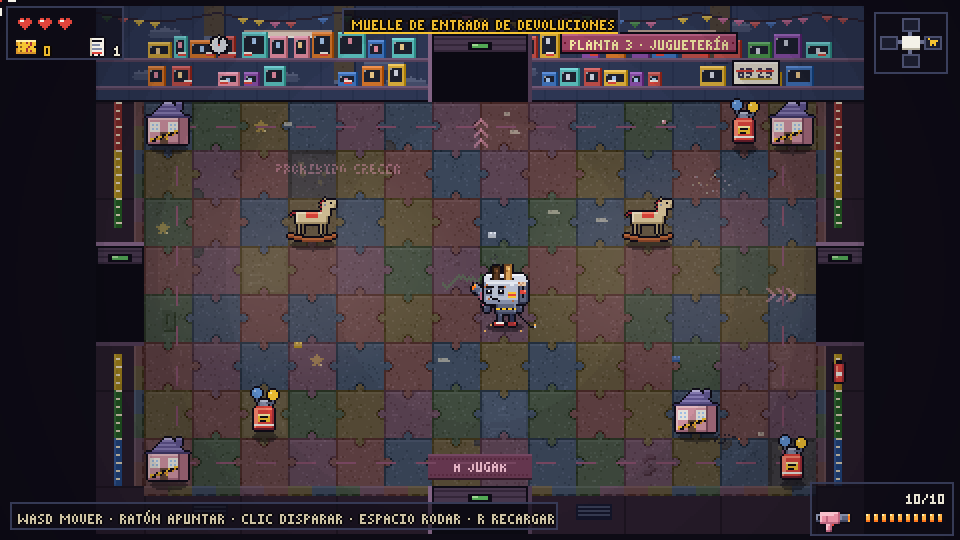
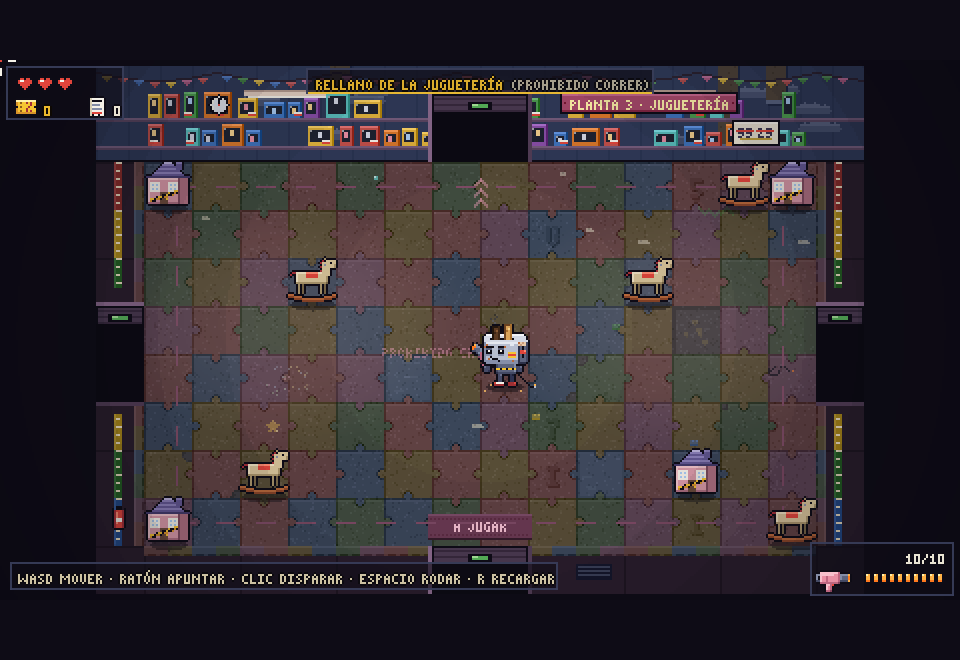
M10 (2c): las salas especiales de la Juguetería (rellano, tesoro, tienda, secreta con su catálogo de Navidad y el Escaparate de Novedades)
Claude-Session: https://claude.ai/code/session_01LyCe1RLjgaEZkf9uXnFzeE

diff --git a/src/data/rooms.ts b/src/data/rooms.ts
@@ -807,7 +807,7 @@ const FLOOR_2: RoomTemplate[] = [
 // Floor 3 (Juguetería) templates: same rules as the floors below. Its toys punish standing still
 // and not watching the floor (docs/DISENO.md), so its rooms give the wind-up robots walls to
 // bounce off, the cars room to run, the buckets of pieces floor to sow and the tables to tip.
-// Until it has its own (M10 2c), its start, treasure, shop, secret and boss rooms are floor 1's.
+// Its boss room, el Escaparate de Novedades, waits for El Muñeco de Moda (M10 5).
 const FLOOR_3: RoomTemplate[] = [
   {
     id: 'circuito-ocasion',
@@ -1085,6 +1085,111 @@ const FLOOR_3: RoomTemplate[] = [
       '#..e........e..#',
       '#b............b#',
       '################',
+    ],
+  },
+  // ---------- Start, treasure, shop, secret, boss (floor 3) ----------
+  {
+    id: 'entrada-jugueteria',
+    kind: 'start',
+    level: 3,
+    name: 'Rellano de la Juguetería (Prohibido Correr)',
+    rows: [
+      '################',
+      '################',
+      '#c...........kc#',
+      '#..............#',
+      '#...k......k...#',
+      '#..............#',
+      '#.......P......#',
+      '#..............#',
+      '#..k........c..#',
+      '#c............k#',
+      '################',
+    ],
+  },
+  {
+    id: 'tesoro-jugueteria',
+    kind: 'treasure',
+    level: 3,
+    name: 'Encargos de Reyes que Nadie Recogió',
+    rows: [
+      '################',
+      '################',
+      '#cc..........cc#',
+      '#..............#',
+      '#..k........k..#',
+      '#...*......*...#',
+      '#.......*......#',
+      '#..............#',
+      '#..c........c..#',
+      '#k............k#',
+      '################',
+    ],
+  },
+  {
+    id: 'tienda-jugueteria',
+    kind: 'shop',
+    level: 3,
+    name: 'Juguetes Educativos (Enseñan a Pagar)',
+    rows: [
+      '####################',
+      '####################',
+      '#c.k.........$...kc#',
+      '#..................#',
+      '#...s....s....s....#',
+      '#..................#',
+      '#..................#',
+      '#..................#',
+      '#..c...........c...#',
+      '#..................#',
+      '#..................#',
+      '#ck..............kc#',
+      '####################',
+    ],
+  },
+  {
+    id: 'secreta-jugueteria',
+    kind: 'secret',
+    level: 3,
+    name: 'Juguetes Retirados (Piezas Pequeñas)',
+    rows: [
+      '################',
+      '################',
+      '#ccc..k....kccc#',
+      '#cc...........c#',
+      '#c.............#',
+      '#.......*......#',
+      '#..............#',
+      '#c.............#',
+      '#cc..........kc#',
+      '#ccck......kccc#',
+      '################',
+    ],
+  },
+  {
+    // El Muñeco de Moda (docs/DISENO.md): a clear centre for its catwalk from wall to wall, and
+    // four glass display cases (shelving, for now) that stop bullets.
+    id: 'jefe-jugueteria',
+    kind: 'boss',
+    level: 3,
+    name: 'Escaparate de Novedades (de la Temporada Pasada)',
+    rows: [
+      '##########################',
+      '##########################',
+      '#c......................c#',
+      '#........................#',
+      '#...........J............#',
+      '#........................#',
+      '#.....##..........##.....#',
+      '#.....##..........##.....#',
+      '#........................#',
+      '#........................#',
+      '#.....##..........##.....#',
+      '#.....##..........##.....#',
+      '#........................#',
+      '#........................#',
+      '#b......................b#',
+      '##########################',
     ],
   },
 ];

diff --git a/tests/rooms.test.ts b/tests/rooms.test.ts
@@ -236,21 +236,30 @@ test('salas especiales de la planta 2: lo mismo que las del almacén donde impor
   }
 });
 
-test('plantillas de la planta 3: doce salas de combate suyas, y las especiales todavía las del almacén', () => {
+test('plantillas de la planta 3: doce salas de combate y las especiales, todas suyas', () => {
   const three = templatesOf('combat', 3);
   assert.ok(three.length >= 12, `${three.length} salas de combate en la planta 3`);
   for (const t of three) assert.equal(t.level, 3, t.id);
   // Nothing of floor 3 leaks into the floors below.
   for (const level of [1, 2]) assert.ok(!templatesOf('combat', level).some((t) => t.level === 3), `planta ${level}`);
-  // Until M10 (2c) the special rooms of floor 3 are the warehouse's.
-  for (const k of ['start', 'treasure', 'shop', 'secret', 'boss'] as const) assert.deepEqual(templatesOf(k, 3), templatesOf(k), k);
+  // Its special rooms are its own too, and match the warehouse's where the code counts on it.
+  const count = (t: RoomTemplate, ch: string): number => [...t.rows.join('')].filter((x) => x === ch).length;
+  for (const k of ['start', 'treasure', 'shop', 'secret', 'boss'] as const) {
+    const [one] = templatesOf(k);
+    assert.ok(templatesOf(k, 3).length >= 1, k);
+    for (const t of templatesOf(k, 3)) {
+      assert.equal(t.level, 3, `${k}: ${t.id}`);
+      for (const ch of ['*', 's', '$', 'J', 'e', 'P']) assert.equal(count(t, ch), count(one!, ch), `${t.id}: «${ch}»`);
+      assert.deepEqual([t.rows[0]!.length, t.rows.length], [one!.rows[0]!.length, one!.rows.length], `${t.id}: tamaño`);
+    }
+  }
   // A generated floor 3 fights only in its own rooms, and its toys come out of their slots.
   const toys = new Set(['Q', 'V', 'U', 'Y']);
   let withToys = 0;
   for (let i = 0; i < 10; i++) {
     const w = createWorld({ seed: `juguetes-${i}`, floor: true, level: 3 });
+    for (const r of w.floor!.rooms) assert.equal(r.template.level, 3, r.template.id);
     for (const r of w.floor!.rooms.filter((x) => x.template.kind === 'combat')) {
-      assert.equal(r.template.level, 3, r.template.id);
       if ([...r.template.rows.join('')].some((ch) => toys.has(ch))) withToys++;
     }
   }

diff --git a/tests/archivador-panel.test.ts b/tests/archivador-panel.test.ts
@@ -62,10 +62,10 @@ test('el panel enseña la lista, lo nuevo, la hoja abierta, y vacío lo dice', (
   const a = archive(two!);
   const L = archiveLayout(a, firstCursor(a), hint);
   const tt = L.texts.map((t) => t.text);
-  assert.ok(tt.includes('2/4'));
+  assert.ok(tt.includes(`2/${LORE.length}`));
   assert.equal(L.texts.filter((t) => t.role === 'new').map((t) => t.text).join(), ARCHIVE_NEW, 'solo el manual es nuevo');
   assert.equal(L.texts.find((t) => t.role === 'open')?.text, 'Manual de procedimiento · Página 1 de 400');
-  assert.equal(L.texts.filter((t) => t.role === 'missing').length, 2);
+  assert.equal(L.texts.filter((t) => t.role === 'missing').length, LORE.length - 2);
   assert.ok(tt.some((t) => t.startsWith('Paso 1: reciba el aparato')));
   assert.ok(tt.includes('Hoja 1 de 2') && tt.includes(hint));
   assert.equal(LORE_MISSING, a[2]!.heading);

diff --git a/src/data/lore.ts b/src/data/lore.ts
@@ -65,4 +65,15 @@ export const LORE: readonly LoreDoc[] = [
       'Resistencia de tostadora, reacondicionada: 0,40. Puerta de microondas, reacondicionada: 0,15. Gracias por su visita.',
     ],
   },
+  {
+    id: 'catalogo-1',
+    kind: 'Catálogo de Navidad',
+    title: 'Edición interna · No distribuir',
+    source: { secret: 3 },
+    pages: [
+      'Novedad de la temporada: Robot de Cuerda «Segunda Vida». Muelle de tostadora, chapa de microondas y engranajes de batidora. Todo de la última planta.',
+      'Garantía: la que les quedara a las piezas. Nota del departamento: no les quedaba ninguna. Por eso sale tan barato.',
+      'Edad recomendada: 3+. Edad de las piezas: no pregunte.',
+    ],
+  },
 ];

diff --git a/tests/documentos.test.ts b/tests/documentos.test.ts
@@ -18,7 +18,7 @@ function intoSecret(w: World): void {
 const docOf = (level: number): string => LORE.find((l) => 'secret' in l.source && l.source.secret === level)!.id;
 
 test('la sala secreta de cada planta guarda su documento en el suelo, en un sitio pisable', () => {
-  for (const level of [1, 2]) {
+  for (const level of [1, 2, 3]) {
     for (const seed of ['a', 'b', 'c', 'd']) {
       const w = createWorld({ seed: `doc-${seed}`, floor: true, level });
       w.noDamage = true;

diff --git a/docs/BITACORA.md b/docs/BITACORA.md
@@ -2,6 +2,13 @@
 
 La entrada más reciente va arriba. Cada sesión añade una.
 
+## 2026-11-05 03:09 (hora peninsular) — Hito M10 — Las salas especiales de la Juguetería
+- Hecho: M10 (2c), y con ella la (2) entera: la planta 3 ya no usa ninguna sala del almacén. En `FLOOR_3` (`src/data/rooms.ts`): **Rellano de la Juguetería (Prohibido Correr)**, la entrada, con caballitos y casitas; **Encargos de Reyes que Nadie Recogió**, el tesoro; **Juguetes Educativos (Enseñan a Pagar)**, la tienda; **Juguetes Retirados (Piezas Pequeñas)**, la secreta, abarrotada de casitas y caballitos; y el **Escaparate de Novedades (de la Temporada Pasada)**, la sala del jefe: centro despejado para la pasarela del Muñeco y cuatro expositores que paran balas (de estantería por ahora). Mismos huecos (`*`, `s`, `$`, `J`, `P`) y tamaño que las del almacén, como las de la planta 2; lo comprueba el test de la planta 3, que además pide que una planta 3 generada use solo salas suyas. Documento de historia nuevo para la secreta (`catalogo-1` en `src/data/lore.ts`, `source: { secret: 3 }`): un **Catálogo de Navidad** interno cuyo robot de la temporada está hecho con un muelle de tostadora, chapa de microondas y engranajes de batidora «de la última planta», con la garantía «que les quedara a las piezas». `documentos.test.ts` comprueba ya las plantas 1, 2 y 3.
+- Decisiones: el documento cuenta adónde van las piezas que el Servicio Técnico «repara» (a juguetes nuevos) sin decir todavía que el jugador es el producto, que es cosa del piso secreto (M12); lo apunto en `docs/DISENO.md`. Los expositores de cristal del diseño son, de momento, bloques de estantería: un sprite de vitrina tiene más sentido junto al jefe (5a). Hasta que llegue el Muñeco, el Escaparate lo ocupa el jefe que dé `floorBossOf(3)` (hoy la Nevera); la (3) decide que sea el Router. `archivador-panel.test.ts` tenía «2/4» escrito a mano: ahora lo calcula con `LORE.length`.
+- Medidas: plantas 3 enteras (20, `playFloor` nivel 3): sin daño las recorre todas sin atascos; con daño 43,9 s y 3,17 heridas por sala de combate (igual que antes: las especiales no tienen enemigos). `npm run bot` idéntico.
+- Problemas conocidos: ninguno nuevo. La planta 3 sigue sin alcanzarse jugando.
+- Siguiente paso: M10 (3), encadenar la planta 3 tras el Router (con el Router en el Escaparate hasta que llegue el Muñeco); o (4) ya hecha, así que después (5a), los sprites del Muñeco de Moda.
+
 ## 2026-11-05 02:58 (hora peninsular) — Hito M10 — Seis salas de combate más en la Juguetería
 - Hecho: M10 (2b), con lo que la planta 3 tiene sus doce salas de combate. Nuevas en `FLOOR_3` (`src/data/rooms.ts`): **Maqueta de Tren Eléctrico** (26×13, dos vías de estantería que hacen tres carriles; pasos del centro fijos y de los lados a veces), **Castillo Hinchable** (20×13, un castillo de estanterías con la puerta hacia abajo y dos ventanas que a veces están, con alguien dentro), **Laberinto de Canicas** (16×16, cuatro tramos en molinillo alrededor del centro), **Fiesta de Cumpleaños** (20×16, dos filas de mesas que se vuelcan y bombonas de helio entre ellas), **Regalos Devueltos (26 de Diciembre)** (26×16, escaleras de estantería desde las cuatro esquinas: un rombo con las puntas abiertas) y **Probadores de Disfraces** (16×11, dos probadores en la pared del fondo con alguien dentro, a veces con la cortina medio echada). El test de la planta 3 pide ahora doce.
 - Decisiones: partí la antigua (2b) de la hoja de ruta en dos: (2b) estas seis salas y (2c) las salas especiales (entrada, tesoro, tienda, secreta con su documento y el Escaparate de Novedades), que piden más cosas (documento de historia, sala del jefe) y merecen su propia tarea. Las cortinas de los probadores dejan siempre un hueco: un grupo que cerrara del todo el probador dejaría suelo encerrado (lo prohíbe `rooms.test.ts`).

diff --git a/docs/DISENO.md b/docs/DISENO.md
@@ -403,7 +403,8 @@ no al acercarse (nota del humano del 2026-10-30).
 - **El archivador «Reclamaciones sin Resolver»**: los documentos de historia encontrados
   (albaranes, correos internos, manuales de procedimiento del Servicio Técnico), uno por jefe
   vencido por primera vez y alguno en salas secretas. Leídos en orden cuentan, poco a poco, que
-  el Servicio Técnico no repara nada.
+  el Servicio Técnico no repara nada. El de la secreta de la Juguetería (un catálogo de Navidad
+  interno) deja ver adónde van las piezas: a los juguetes de la temporada siguiente.
 - **La cinta de entrada al almacén**: una cinta transportadora con cortinas de tiras de
   plástico en una pared, bajo el cartel «Mercancía devuelta». Pisarla empieza la partida en la
   planta 1 (como un producto más que vuelve al almacén).

diff --git a/docs/HOJA_DE_RUTA.md b/docs/HOJA_DE_RUTA.md
@@ -332,7 +332,7 @@ jefes y menos plantas ganadas), y los números están en la bitácora.
     persianas propias.
   - [x] (2a) Seis plantillas de combate propias de la planta 3, cada una con su idea y sus grupos.
   - [x] (2b) Seis plantillas de combate más.
-  - [ ] (2c) Las salas especiales propias (entrada, tesoro, tienda, secreta con su documento de
+  - [x] (2c) Las salas especiales propias (entrada, tesoro, tienda, secreta con su documento de
     historia, y el Escaparate de Novedades del jefe).
   - [ ] (3) Encadenar: tras el Router se baja en el montacargas a la planta 3, con todo lo que se
     lleva; hasta que llegue el Muñeco, el Router pelea en el Escaparate.
